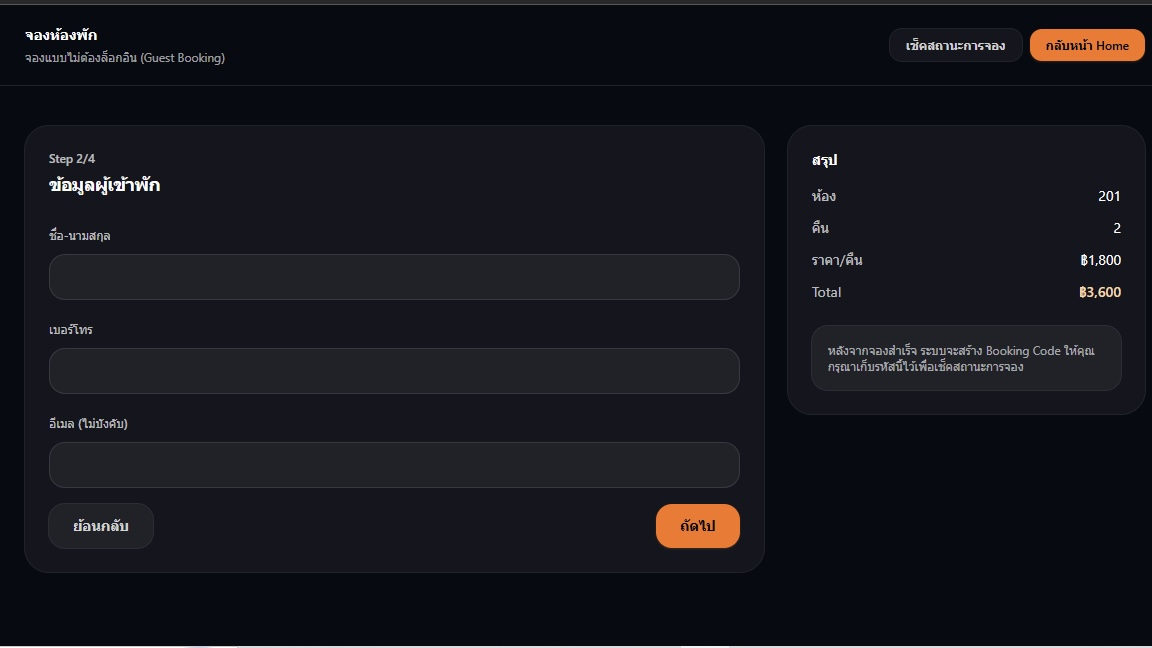
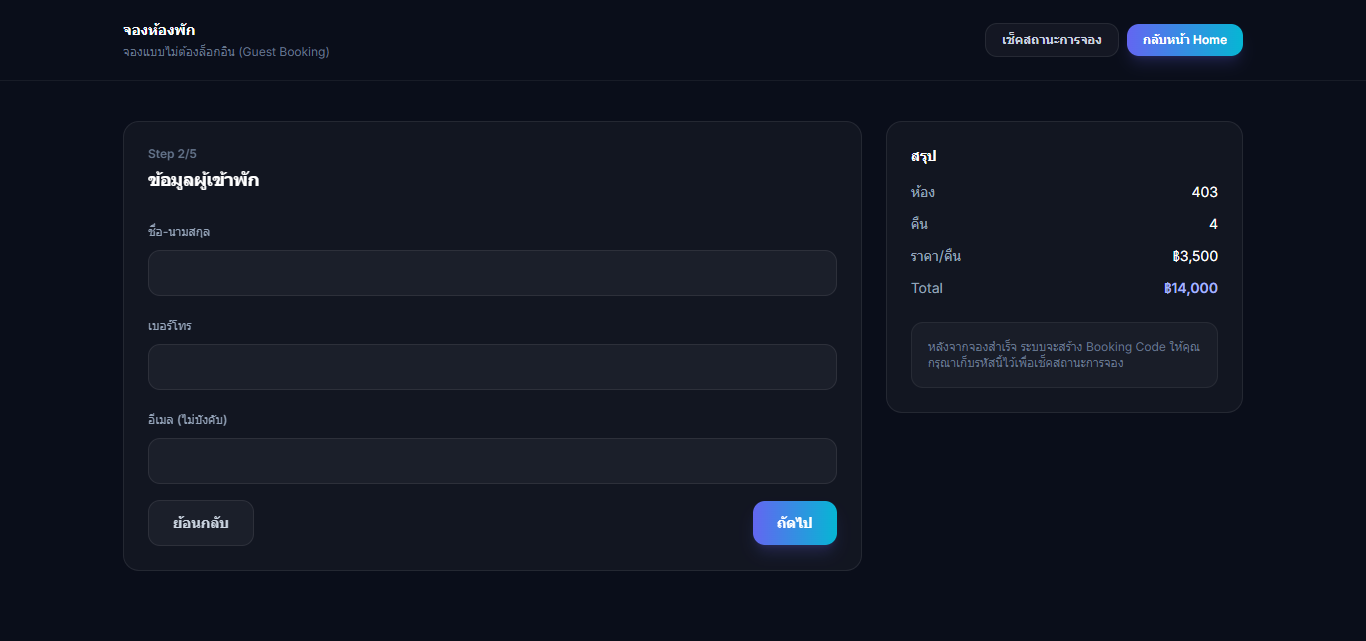
Change Picture

diff --git a/client/src/pages/client/Receipt.tsx b/client/src/pages/client/Receipt.tsx
@@ -15,7 +15,7 @@ export default function Receipt() {
                 <div className="flex justify-between items-start border-b pb-6">
                     <div>
                         <h1 className="text-3xl font-bold text-slate-800">Brunelleschi Hotel</h1>
-                        <p className="text-sm text-slate-500 mt-1">123 Hotel Avenue, City, Country</p>
+                        <p className="text-sm text-slate-500 mt-1">111 Soi Sukhumvit 99 Klongtoey Subdistrict, Klongtoey District, Thailand 10110</p>
                     </div>
                     <div className="text-right">
                         <h2 className="text-2xl font-bold text-indigo-600 uppercase tracking-widest">Receipt</h2>
